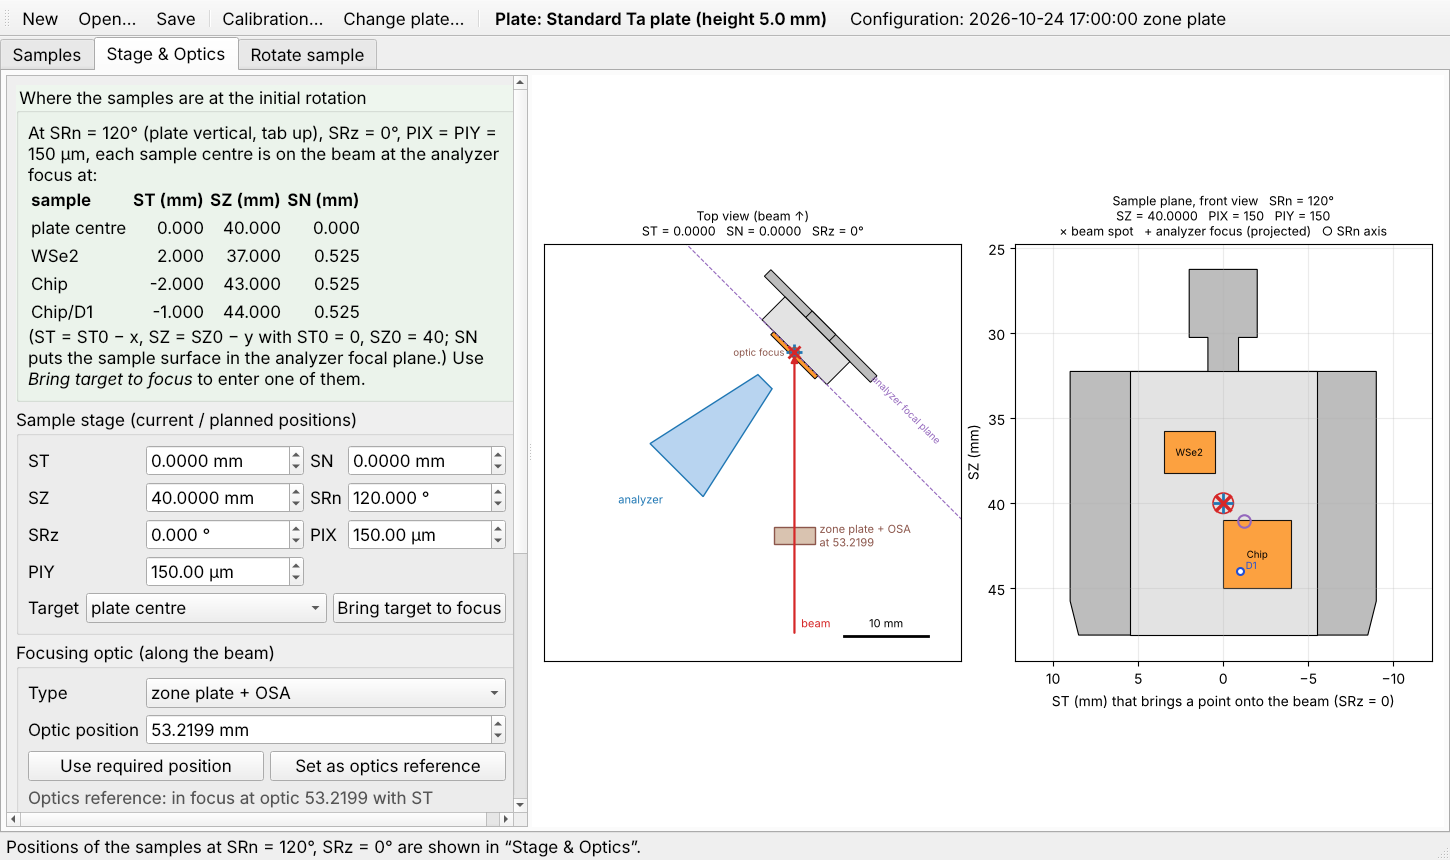
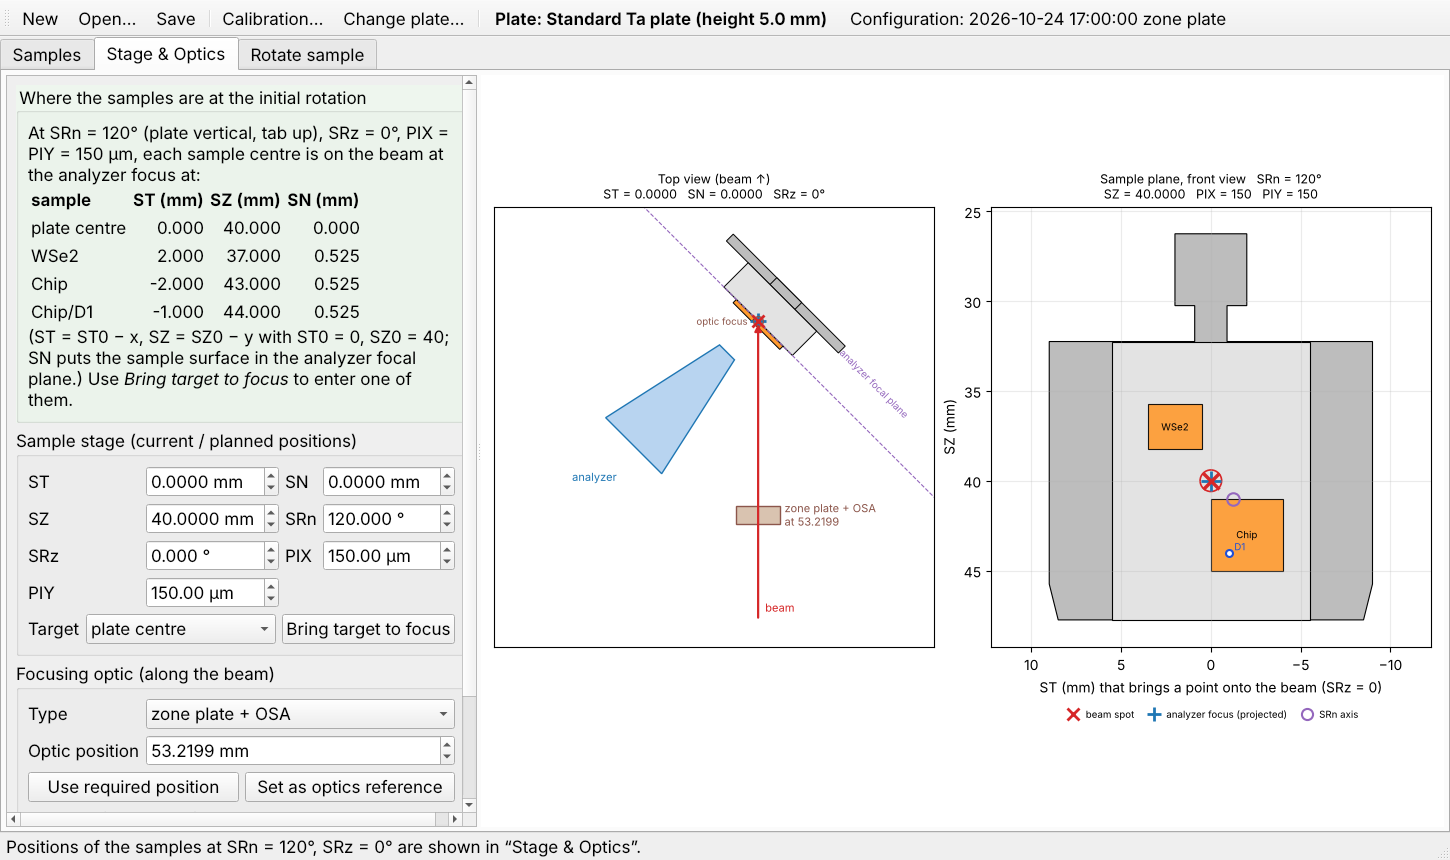
Stage tab: hide the long result texts, coloured schematic legend, no scale bar
- the "Beam lands on…" result and "Configuration in use…" texts are no longer
  shown in the left column (the toolbar shows the configuration, the
  schematic the optic position needed)
- sample plane: the beam spot / analyzer focus / SRn axis legend uses the same
  markers and colours as the plot
- top view: 10 mm scale bar removed

Claude-Session: https://claude.ai/code/session_01JSyDRM4ZQA5Z6ppa2Dxicd

diff --git a/quickalignment/schematic.py b/quickalignment/schematic.py
@@ -12,6 +12,7 @@
 from __future__ import annotations
 
 import numpy as np
+from matplotlib.lines import Line2D
 from matplotlib.patches import Circle, Polygon
 
 from .geometry import SampleLayout
@@ -22,7 +23,7 @@ Y_HAT = np.array([0.0, 1.0, 0.0])
 
 C_BASE, C_RISER, C_BLOCK, C_PAD, C_SCREW = "#bdbdbd", "#e3e3e3", "#d0d0d0", "#e8c400", "#4a3c36"
 C_SAMPLE, C_DEVICE = "#ff9a2e", "#1f4fd6"
-C_BEAM, C_ANALYZER, C_OPTIC = "#d62728", "#1f77b4", "#8c564b"
+C_BEAM, C_ANALYZER, C_OPTIC, C_SRN_AXIS = "#d62728", "#1f77b4", "#8c564b", "tab:purple"
 OPTIC_DRAW_DISTANCE = 22.0  # mm upstream of the focus, schematic only
 
 
@@ -105,10 +106,6 @@ def _draw_top_view(ax, model: StageModel, m: MotorPositions, layout: SampleLayou
     ax.set_xlim(c[0] - span / 2, c[0] + span / 2)
     ax.set_ylim(c[1] - span / 2, c[1] + span / 2)
     ax.set_aspect("equal")
-    # scale bar instead of (relative) axis numbers
-    x0, y0 = c[0] + span / 2 - 14, c[1] - span / 2 + 3
-    ax.plot([x0, x0 + 10], [y0, y0], "k-", lw=2)
-    ax.text(x0 + 5, y0 + 1, "10 mm", ha="center", fontsize=8)
     ax.set_xticks([])
     ax.set_yticks([])
     ax.set_title(f"Top view (beam ↑)\nST = {m.st:.4f}   SN = {m.sn:.4f}   SRz = {m.srz:g}°", fontsize=9)
@@ -149,7 +146,7 @@ def _draw_sample_plane(ax, model: StageModel, m: MotorPositions, layout: SampleL
             ax.text(p[0], p[1], f"  {d.name}", color=C_DEVICE, fontsize=7, va="bottom")
 
     # SRn axis, analyzer focus (projected along the surface normal) and beam spot
-    ax.plot(*to_xy(c.srn_axis_u, c.srn_axis_v), "o", mfc="none", mec="tab:purple", ms=9, mew=1.5)
+    ax.plot(*to_xy(c.srn_axis_u, c.srn_axis_v), "o", mfc="none", mec=C_SRN_AXIS, ms=9, mew=1.5)
     focus_uv = model.lab_to_plate(m, np.zeros(3))[:2]
     ax.plot(*to_xy(*focus_uv), "+", color=C_ANALYZER, ms=14, mew=2)
     if result.plate_uv is not None:
@@ -168,10 +165,17 @@ def _draw_sample_plane(ax, model: StageModel, m: MotorPositions, layout: SampleL
     ax.set_ylabel("SZ (mm)")
     ax.grid(alpha=0.25)
     ax.set_title(
-        f"Sample plane, front view   SRn = {m.srn:g}°\nSZ = {m.sz:.4f}   PIX = {m.pix:g}   PIY = {m.piy:g}"
-        "\n× beam spot   + analyzer focus (projected)   ○ SRn axis",
+        f"Sample plane, front view   SRn = {m.srn:g}°\nSZ = {m.sz:.4f}   PIX = {m.pix:g}   PIY = {m.piy:g}",
         fontsize=9,
     )
+    # legend with the same markers and colours as drawn
+    handles = [
+        Line2D([], [], ls="none", marker="x", color=C_BEAM, ms=8, mew=2, label="beam spot"),
+        Line2D([], [], ls="none", marker="+", color=C_ANALYZER, ms=10, mew=2, label="analyzer focus (projected)"),
+        Line2D([], [], ls="none", marker="o", mfc="none", mec=C_SRN_AXIS, ms=8, mew=1.5, label="SRn axis"),
+    ]
+    ax.legend(handles=handles, loc="upper center", bbox_to_anchor=(0.5, -0.12), ncol=3, fontsize=7, frameon=False,
+              handletextpad=0.3, columnspacing=1.0)
 
 
 def draw_schematic(

diff --git a/quickalignment/ui/stage_panel.py b/quickalignment/ui/stage_panel.py
@@ -189,7 +189,8 @@ class StagePanel(QtWidgets.QWidget):
 
         left = QtWidgets.QWidget()
         lv = QtWidgets.QVBoxLayout(left)
-        for w in (self.start_box, motor_box, optic_box, update_btn, self.result_label, self.cal_status):
+        # result_label / cal_status are kept up to date but not shown (too long for the panel)
+        for w in (self.start_box, motor_box, optic_box, update_btn):
             lv.addWidget(w)
         lv.addStretch(1)
         scroll = QtWidgets.QScrollArea()

diff --git a/README.md b/README.md
@@ -57,10 +57,9 @@ Positions here are **absolute motor values** (ST, SZ, SN, …, optic).
   from the configuration and can be typed in. The result gives the **absolute optic position** for focus
   on the illuminated surface; *Use required position* copies it into the field. After focusing by hand,
   *Set as optics reference* takes the current state as the new optics reference.
-- result: what the beam lands on (with the ST / SZ / SN of that point at SRn = 120, SRz = 0) and the
-  optic position needed
-- schematic: top view (plate orientation, analyzer and its focal plane, beam, optic with its position) and
-  the sample plane in front view (SRn rotation, beam spot; axes in absolute ST / SZ)
+- schematic: top view (plate orientation, analyzer and its focal plane, beam, optic with its position and the
+  position needed for focus) and the sample plane in front view (SRn rotation; beam spot, analyzer focus and
+  SRn axis with a legend in the same colours; axes in absolute ST / SZ)
 
 ### Rotate sample tab (`docs/app_rotate_tab.png`)
 
